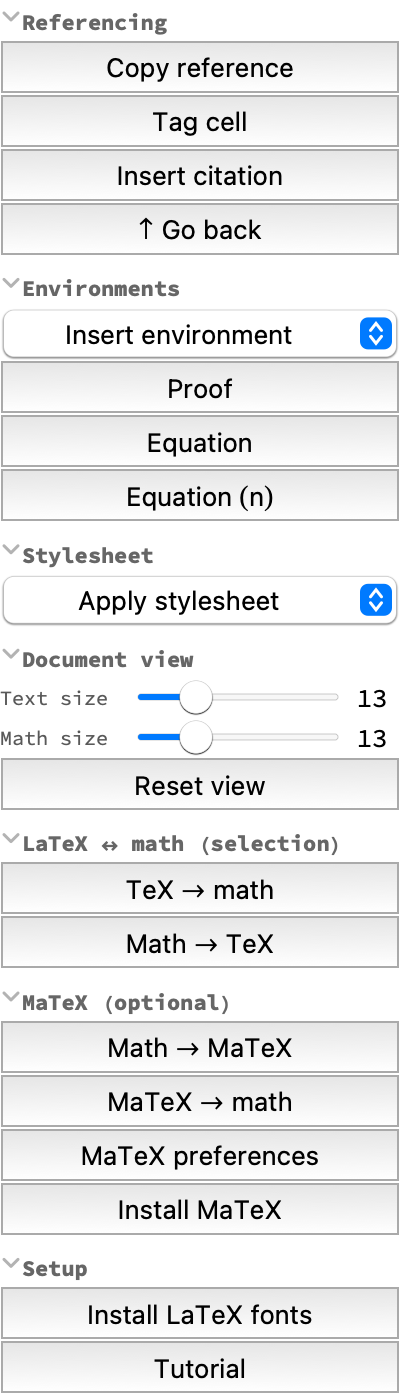
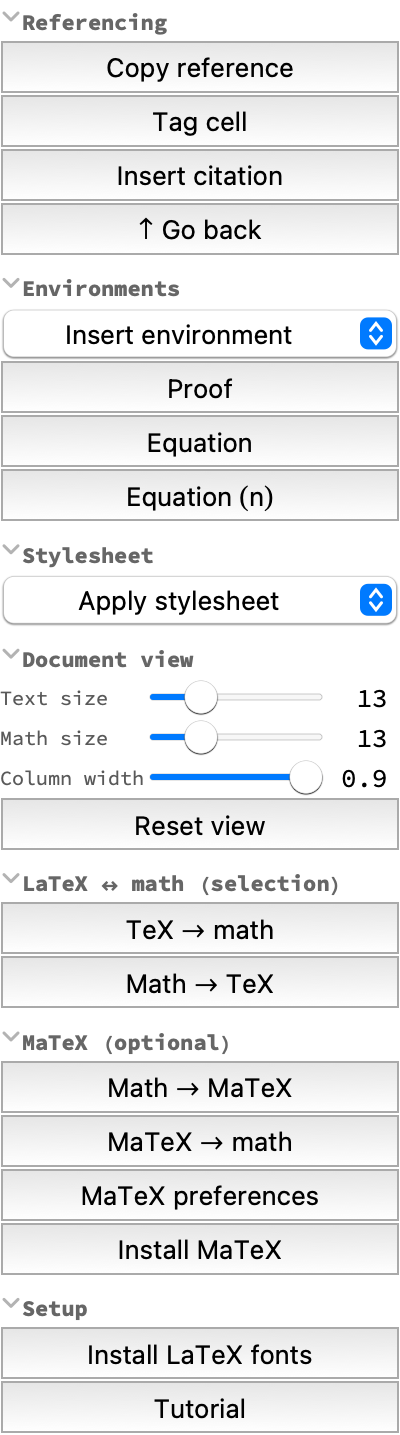
PaletteUsability T4: centered content column and a width slider
SetContentWidth lays a document out in a column centered in the page,
occupying a given fraction of it, on screen and in print.  The palette's
Document view group gains a Column width slider beside the two size
sliders; the three now share one viewSlider and one static stand-in.

- each column style gets CellMargins -> {{Scaled[inset] + dLeft,
  Scaled[inset] + dRight}, base vertical} with inset = (1 - width)/2, on
  the bare style and its "Printout" variant.  The front end resolves
  Scaled[fraction] + points, which is what T1 left open: measured 14
  wrapped lines for Scaled[0.1] against 23 for Scaled[0.1] + 200, and
  Scaled[0.1] + Scaled[0.44] laying out identically to Scaled[0.54].
  The symmetric Scaled inset centers the column; the per-style offset
  keeps the section numbers and the theorem, proof and abstract
  dingbats, drawn to the left of their own cell margin, inside the page.
- base geometry is read from the document's own stylesheet chain, not
  from LaTeXBase.nb.  Reading {StyleDefinitions, style, CellMargins}
  resolves through the chain even though assigning to it is ignored, so
  the control covers the list styles no MathNotebook sheet declares and
  a document still on Default.nb.
- offsets are anchored on the smallest base margin rather than on Text,
  which sits 26 pt right of Section: a Text anchor gives negative
  offsets that push the section number off the page.  The slider tops
[…]

Changed region(s): [[0.0, 0.0, 1.0, 0.9247], [0.0, 0.9247, 0.99, 0.9864], [0.99, 0.3391, 1.0, 0.3699]]

diff --git a/Work/Active/PaletteUsability.md b/Work/Active/PaletteUsability.md
@@ -55,7 +55,6 @@ The style names to touch are already partitioned in `Scripts/BuildStyleSheets.wl
 
 ## Tasks
 
-- [ ] T4 — `SetContentWidth` plus slider — exposing the native option if T1 found one, otherwise private style definitions.
 - [ ] T5 — Document all of it in the tutorial (`Scripts/BuildTutorial.wls`), in a new section on reading and writing comfortably; tests for the three functions.
 - [ ] T6 — Feedback round: Pavel writes with it on a real document; revise.
 
@@ -64,6 +63,7 @@ The style names to touch are already partitioned in `Scripts/BuildStyleSheets.wl
 - [x] T1 — Investigate the three mechanisms in a scratch notebook; write down what actually works in 15.0, especially whether a native centered-content-width option exists. (Session 1)
 - [x] T2 — Foldable groups with persisted state; rebuild the palette and its screenshot. (Session 2)
 - [x] T3 — `SetDocumentFontSize` / `SetMathFontSize` plus palette sliders, with a reset, and a decision recorded on MaTeX cells. (Session 3)
+- [x] T4 — `SetContentWidth` plus slider — exposing the native option if T1 found one, otherwise private style definitions. (Session 4)
 
 ## Progress
 
@@ -126,6 +126,25 @@ The style names to touch are already partitioned in `Scripts/BuildStyleSheets.wl
     The front end needs a restart before the new palette is served.
 - **Next:** T4 — `SetContentWidth` plus slider.
 
+### Session 4 — 2026-07-26 — T4
+
+- **Prompt:** `/next-session` on this item, plus mid-session feedback from Pavel — "the reference cell looks ugly, not showing the tag [...]. Also the font size is not changed in itemized, references, theorem etc. cells" — filed as `Work/Backlog/ViewAndReferenceDefects.md` rather than worked here.
+- **Did:** Added `SetContentWidth` to `MathNotebook/Kernel/View.wl` and a *Column width* slider to the palette's *Document view* group, so the three sliders now share one `viewSlider` and one static stand-in.
+  The width is the fraction of the page the content column occupies; each column style gets `CellMargins -> { { Scaled[ inset ] + dLeft, Scaled[ inset ] + dRight }, base vertical }` with `inset = (1 - width)/2`, on the bare style and its `"Printout"` variant.
+  The per-style offsets are read from the document's own stylesheet chain and measured from the smallest base margin, so no offset is negative and every style keeps its indent.
+  Verified on exported PDFs at 595 pt: ink columns `{ 73, 521 }` unmodified, `{ 163, 422 }` at width 0.6 — the left edge moving in by exactly `0.2 × 451.28` pt of printable width — `{ 87, 498 }` at 0.9, and `{ 73, 521 }` again after `ResetDocumentView`, with `StyleDefinitions` back to the bare `"MathNotebook/AMSArticle.nb"`, the tagging rules `Inherited`, and exactly one marker cell in the sheet (no nesting).
+  On screen the right text edge moves 855 → 623 px at 0.6 and back on reset, and the same holds on a document still on `Default.nb` (855 → 583 → 855), which the control has to support.
+  The generated margin cells read `{ 26 + Scaled[0.2], Scaled[0.2] }` for `Text`, `{ Scaled[0.2], 15 + Scaled[0.2] }` for `Section`, `{ 90 + Scaled[0.2], Scaled[0.2] }` for `Theorem` and `{ 41 + Scaled[0.2], Scaled[0.2] }` for `Item`.
+  Palette rebuilt with its screenshot: 715 px tall all open, 247 px all closed, 323 px with only *Document view* open. All 35 tests still pass, and 0.1.5 is built and installed so the slider is actually in the front end after a restart.
+- **Learned:**
+  - **`CellMargins` accepts `Scaled[fraction] + points` and the front end resolves the sum** — measured 14 wrapped lines for `Scaled[0.1]` against 23 for `Scaled[0.1] + 200`, and `Scaled[0.1] + Scaled[0.44]` laid out identically to `Scaled[0.54]`. This is what T1 left open, and it is the whole design: a symmetric `Scaled` inset centers the column while a per-style point offset keeps the section numbers and the theorem, proof and abstract dingbats, which are drawn to the left of their own cell margin, inside the page.
+  - **Reading `CurrentValue[ nb, { StyleDefinitions, style, option } ]` resolves through the whole chain**, even though assigning to it is ignored (T1). It returns `{ { 81, 10 }, { 4, 8 } }` for `Item` — a style no MathNotebook sheet declares — and works on a `Default.nb` document. So base geometry comes from the document's parent sheet at run time rather than from `LaTeXBase.nb`, which is what makes the control correct on all five sheets.
+  - **Offsets have to be measured from the smallest base margin, not from `Text`.** `Section` sits 26 pt *left* of `Text`, so anchoring on `Text` would make the section number's offset negative and push it off the page as the column widens. Anchoring on the minimum also fixes the slider's top end: 0.9 is both the default and the maximum, since the dingbats hang left of the anchor by their own width and zero inset would clip them.
+  - **T3's font-size mechanism is broken for most of the prose, and this task's reader is the fix.** Measured after `SetDocumentFontSize[ document, 20 ]`: `Text` 13 → 20, `Abstract` 12 → 18, `Title` 26 → 40, but `Theorem`, `Proof` and `Reference` stay at 13 and `Item` and `ItemNumbered` at 15. Two causes — a style declared `StyleData[ name, StyleDefinitions -> StyleData[ "Text" ] ]` carries no bare `FontSize` and does not inherit a child sheet's `Text` override, and the list styles are not in `LaTeXBase.nb` at all. This is exactly Pavel's report; it is T1 of the new item.
+  - **The generated palette `.nb` already carries a `TaggingRules` association** — all groups `True`, written by the exporting front end. Patching fold state for a measurement has to replace it, since a second copy of the option is ignored and the first wins; and `Get`ting the palette to patch it re-evaluates it, which is the trap that reported one window size for all three fold states. Both mistakes were made and caught here. WL's `RegularExpression` also needs `(?s)` to match across the association's line breaks.
+  - Ink-column measurements are exact in print (the 0.6 shift matched `0.2 × 451.28` pt to the pixel) but not on screen, where `Scaled` resolves against a `PageWidth` noticeably wider than the window: the right edge moved 232 px where the window width predicts 180. Use print for numbers, screen only for direction.
+- **Next:** T5 — document the three controls in the tutorial and add tests.
+
 ## Decisions
 
 | Date | Decision | Rationale |
@@ -144,3 +163,7 @@ The style names to touch are already partitioned in `Scripts/BuildStyleSheets.wl
 | 2026-07-26 | Applying a stylesheet from the palette also clears the stored sizes | the new sheet replaces the private one, so keeping the numbers would make the sliders report a size the document no longer has |
 | 2026-07-26 | No `Magnification` slider | the Spec warns against conflating the two and the front end already has a window zoom control; revisit if T6 asks for it |
 | 2026-07-26 | `ResetDocumentView` is a fourth exported function beside the three in the Spec | "any control returns to the stylesheet default" needs both a per-control reset (`Automatic`) and a one-click clear-all; T4's width joins the same reset |
+| 2026-07-26 | The width is a fraction of the page, realised as a symmetric `Scaled` inset plus a per-style point offset | `Scaled` resolves against `PageWidth`, so the column follows a window resize and still prints; the offsets keep the hanging section numbers and dingbats inside the page, which one margin pair for every style would not |
+| 2026-07-26 | Per-style base geometry is read from the document's own stylesheet chain, not from `LaTeXBase.nb` | reading `{ StyleDefinitions, style, CellMargins }` resolves through the chain, so the control covers the list styles the paclet never declares and a document still on `Default.nb` |
+| 2026-07-26 | Offsets are anchored on the smallest base margin, and the slider tops out at 0.9 rather than 1 | `Section` sits left of `Text`, so a `Text` anchor gives negative offsets; and the dingbats hang left of the anchor by their own width, so zero inset would clip them |
+| 2026-07-26 | Pavel's report of unchanged font size in itemized, reference and theorem cells is its own work item, not a revision of T3 | the reference label is a referencing defect and the font-size fix replaces T3's extraction with T4's chain reader, so it is a rewrite rather than a tweak; see `Work/Backlog/ViewAndReferenceDefects.md` |

diff --git a/Work/Backlog/ViewAndReferenceDefects.md b/Work/Backlog/ViewAndReferenceDefects.md
@@ -1,0 +1,64 @@
+# View and Reference Defects
+
+*[ LLM Generated ]*
+
+> Type: bugfix
+<!-- Status is the folder: Active/ Backlog/ Done/ Dropped/. Move the file to change it. -->
+
+## Spec
+
+Origin: Pavel, 2026-07-26, driving the palette on a real document — "Currently the reference cell looks ugly, not showing the tag [...]. Also the font size is not changed in itemized, references, theorem etc. cells."
+
+Two defects found in first real use, both reproduced.
+
+**The text-size slider misses most of the prose.**
+`SetDocumentFontSize` writes one override cell per style that carries an explicit `FontSize` in `LaTeXBase.nb`, and only those styles change.
+Measured on an `AMSArticle` document after `SetDocumentFontSize[ document, 20 ]`: `Text` 13 → 20, `Abstract` 12 → 18 and `Title` 26 → 40, but `Theorem`, `Proof` and `Reference` stay at 13 and `Item` and `ItemNumbered` stay at 15.
+Two distinct causes.
+Styles declared as `StyleData[ name, StyleDefinitions -> StyleData[ "Text" ] ]` — the twelve theorem environments, `Proof`, `Reference`, `Author`, `Date` — carry no bare `FontSize` of their own, so T3's extraction produces no screen override cell for them, and the inheritance is resolved inside the parent sheet: a child sheet overriding `Text` does **not** reach them.
+The list styles are not in `LaTeXBase.nb` at all — the templates give them only a `FontFamily` — so their size comes from `Default.nb` and nothing is ever written for them.
+The fix is to stop reading base sizes out of `LaTeXBase.nb` and read each style's *resolved* size from the document's own stylesheet chain, which is what T4's `baseCellMargins` already does for margins: `CurrentValue[ notebook, { StyleDefinitions, style, CellMargins } ]` resolves through the chain and covers the `Item` family and a plain `Default.nb` document alike.
+The style list then has to be the paper's structural styles rather than "whatever `LaTeXBase` happens to declare".
+
+**A `Reference` cell shows no label.**
+The `Reference` style is a bare hanging-indent paragraph — `CellMargins -> { { 90, 10 }, { 3, 3 } }`, `ParagraphIndent -> -24` — with no `CellDingbat`, no counter and no use of the cell's own `CellTags`.
+So a tagged reference displays nothing where `[1]` belongs, and the hanging indent pulls the first line 24 pt left of the block with nothing in the gap, which is what reads as broken.
+`InsertCitation` meanwhile writes `[tag]` into the body as a `Citation` button, so the citation shows a label the bibliography entry does not.
+Decide whether the label comes from the cell's `CellTags` (matching what `InsertCitation` links to, so `[Ollivier]`) or from an auto-incremented counter (matching LaTeX's `\bibitem` numbering, so `[1]`), then render it as a dingbat so it is never typed by hand.
+
+Done when a text-size change moves every prose style on screen and in print on all four templates plus `Default.nb`, a tagged `Reference` cell shows its label without the author typing it, and Pavel confirms both on the document that produced the report.
+
+### Requirements
+
+- Every structural prose style follows the text-size slider: `Text`, `Item`, `ItemNumbered`, `ItemParagraph`, `Reference`, `Proof`, the twelve theorem environments, `Author`, `Date`, `Abstract`, `Title`, the three section levels.
+- Both the bare style and its `"Printout"` variant, per the standing decision — screen and PDF.
+- A `Reference` cell renders its label automatically, and the label agrees with what `InsertCitation` inserts for the same tag.
+- Reproduction assertions become tests, so neither defect can come back silently: assert resolved `FontSize` per style after a `SetDocumentFontSize` call, not merely that the call returned.
+
+### Edge cases & out of scope
+
+- Reading resolved values needs a front end and a `NotebookObject`; memoize per parent stylesheet, as `baseCellMargins` does, so the sliders stay cheap.
+- On a `Default.nb` document the theorem styles do not exist; writing override cells for absent styles must stay harmless.
+- If the label comes from `CellTags`, a cell can carry several tags — pick one rule and state it.
+- The equation-number style is a `CellFrameLabels` label, not a column style; it scales with the math slider and must not be given column margins.
+- Out of scope: changing the four template stylesheets' design (fonts, sizes, spacing) — this is about the controls reaching what the design already declares, and about one missing label.
+
+## Tasks
+
+- [ ] T1 — Rebuild the font-size setters on resolved per-style sizes read from the document's own chain; assert every prose style moves, screen and print, on all five sheets.
+- [ ] T2 — Decide the `Reference` label rule and implement it as a dingbat; make `InsertCitation` and the bibliography entry agree.
+- [ ] T3 — Tests for both, then Pavel re-checks on the document that produced the report.
+
+### Done
+
+(completed tasks move here with the session that closed them)
+
+## Progress
+
+(no sessions yet)
+
+## Decisions
+
+| Date | Decision | Rationale |
+|---|---|---|
+| 2026-07-26 | Filed as its own item rather than folded into `PaletteUsability` T6 | the reference label is a referencing defect, not a view control, and the font-size fix rewrites T3's mechanism rather than revising it |

diff --git a/CLAUDE.md b/CLAUDE.md
@@ -21,12 +21,16 @@ Paclet for writing math papers in Wolfram notebooks: referencing palette, LaTeX 
 - `CurrentValue[EvaluationNotebook[], {TaggingRules, key}, True]` is fully front-end-side — no kernel is launched to display or fold the palette. Set it from an `EventHandler` with `Method -> "Preemptive"`, and use two handlers (set `True` / set `False`) rather than a `Not`.
 - `PaneSelector` reserves the size of its **largest** pane unless given `ImageSize -> Automatic` explicitly. Without that option a collapsed group still occupies its open height and the fold does nothing.
 - `Rasterize` renders `Dynamic` as a placeholder and `PaneSelectorBox` at max size, so a raster can neither show nor measure fold state. Build a separate static rendition for screenshots (`Scripts/BuildPalette.wls` has `staticGroup` beside `paletteGroup`).
-- Never `Import` a palette `.nb` into a variable to inspect it — the result is re-evaluated, so a literal `EvaluationNotebook[]` becomes `$Failed` and every `CurrentValue` collapses to its default. Read it as text, or measure via `AbsoluteCurrentValue[nb, WindowSize]` after `NotebookOpen`.
+- Never `Import` **or `Get`** a palette `.nb` into a variable to inspect it — the result is re-evaluated, so a literal `EvaluationNotebook[]` becomes `$Failed` and every `CurrentValue` collapses to its default, reporting one window size for every fold state. Read it as text, or measure via `AbsoluteCurrentValue[nb, WindowSize]` after `NotebookOpen`.
+- To measure a fold state, patch the palette's **existing** `TaggingRules` option as text — the generated file already carries one (an all-`True` association the exporting front end writes), a second copy of the option is ignored, and the association spans several lines, so the regex needs `(?s)`: WL's `RegularExpression` `.` does not cross a newline.
 
 ## Style overrides on a document
 
 - The `"Printout"` variant of a style wins over the bare style name **across the whole stylesheet chain**. Since `LaTeXBase` sets an explicit `FontSize` on every prose/math style's `"Printout"` variant, an override written only on the bare name changes the screen and leaves the PDF byte-identical. Always write both.
 - `CurrentValue[nb, {StyleDefinitions, style, option}] = value` is silently ignored. Build the private sheet (`Notebook[{Cell[StyleData[StyleDefinitions -> parent]], overrides...}, StyleDefinitions -> "PrivateStylesheetFormatting.nb"]`) and install it with `SetOptions`.
+- **Reading** that same path *does* work, and resolves through the whole chain — including styles no MathNotebook sheet declares (the `Item` family, which comes from `Default.nb`) and a document still on `Default.nb`. It is the way to get a style's base geometry; read it off a scratch notebook created with the *parent* sheet, or a second call compounds its own override.
+- A style declared `StyleData[name, StyleDefinitions -> StyleData["Text"]]` — the theorem environments, `Proof`, `Reference`, `Author`, `Date` — does **not** pick up a child sheet's override of `Text`; the inheritance is resolved inside the parent. Such a style carries no bare `FontSize` of its own, so an override generated from the base sheet's declared sizes skips it and its size never changes on screen.
+- `CellMargins` accepts `Scaled[fraction] + points`, and the front end resolves the sum (`Scaled[a] + Scaled[b]` behaves as `Scaled[a + b]`). That is what lets a centered content column keep each style's own indent: symmetric `Scaled` inset for the column, plus a per-style point offset for the section numbers and theorem dingbats, which are drawn to the left of their own cell margin.
 - Duplicate `StyleData` cells for the same name and environment in one sheet are **both dropped**. Rewrite an override in place; never append a second cell.
 - The front end **drops `TaggingRules` from a private stylesheet notebook** — string, rule list or association alike — while adding `Visible` and `FrontEndVersion` of its own. To recognise a sheet you generated, mark it with a hidden cell (`Cell[StyleData["<marker>"], StyleMenuListing -> None, MenuSortingValue -> None]`); cells survive the round trip. Without a marker each install nests the previous sheet inside the new one and reset can no longer recover the real parent.
 - Reset = recover the parent with `FirstCase[..., Cell[StyleData[StyleDefinitions -> name_]] :> name]` and assign it back verbatim — it is a string from the menus but a `FrontEnd`FileName` from the palette.

diff --git a/Work/README.md b/Work/README.md
@@ -21,10 +21,11 @@ item — clean context per task is the whole point. Use `/work` to create a new 
 
 ## Active
 
-- [Palette Usability & Document View Controls](Active/PaletteUsability.md) — next: **T4**, `SetContentWidth` plus slider
+- [Palette Usability & Document View Controls](Active/PaletteUsability.md) — next: **T5**, document the three view controls in the tutorial and add tests
 
 ## Backlog
 
+- [View and Reference Defects](Backlog/ViewAndReferenceDefects.md) — the text-size slider misses the list, reference and theorem styles; a `Reference` cell shows no label
 - [Update From Cloud Button](Backlog/SelfUpdate.md) — palette button that installs a newer paclet from its cloud URL
 - [Adopt WolframInstituteTools Practices](Backlog/WolframInstituteToolsPractices.md) — real documentation pages for the exported symbols, and their notebook tooling
 - [LaTeX Paper Import](Backlog/LaTeXPaperImport.md) — round-trip a real paper; figures carry their generating code
